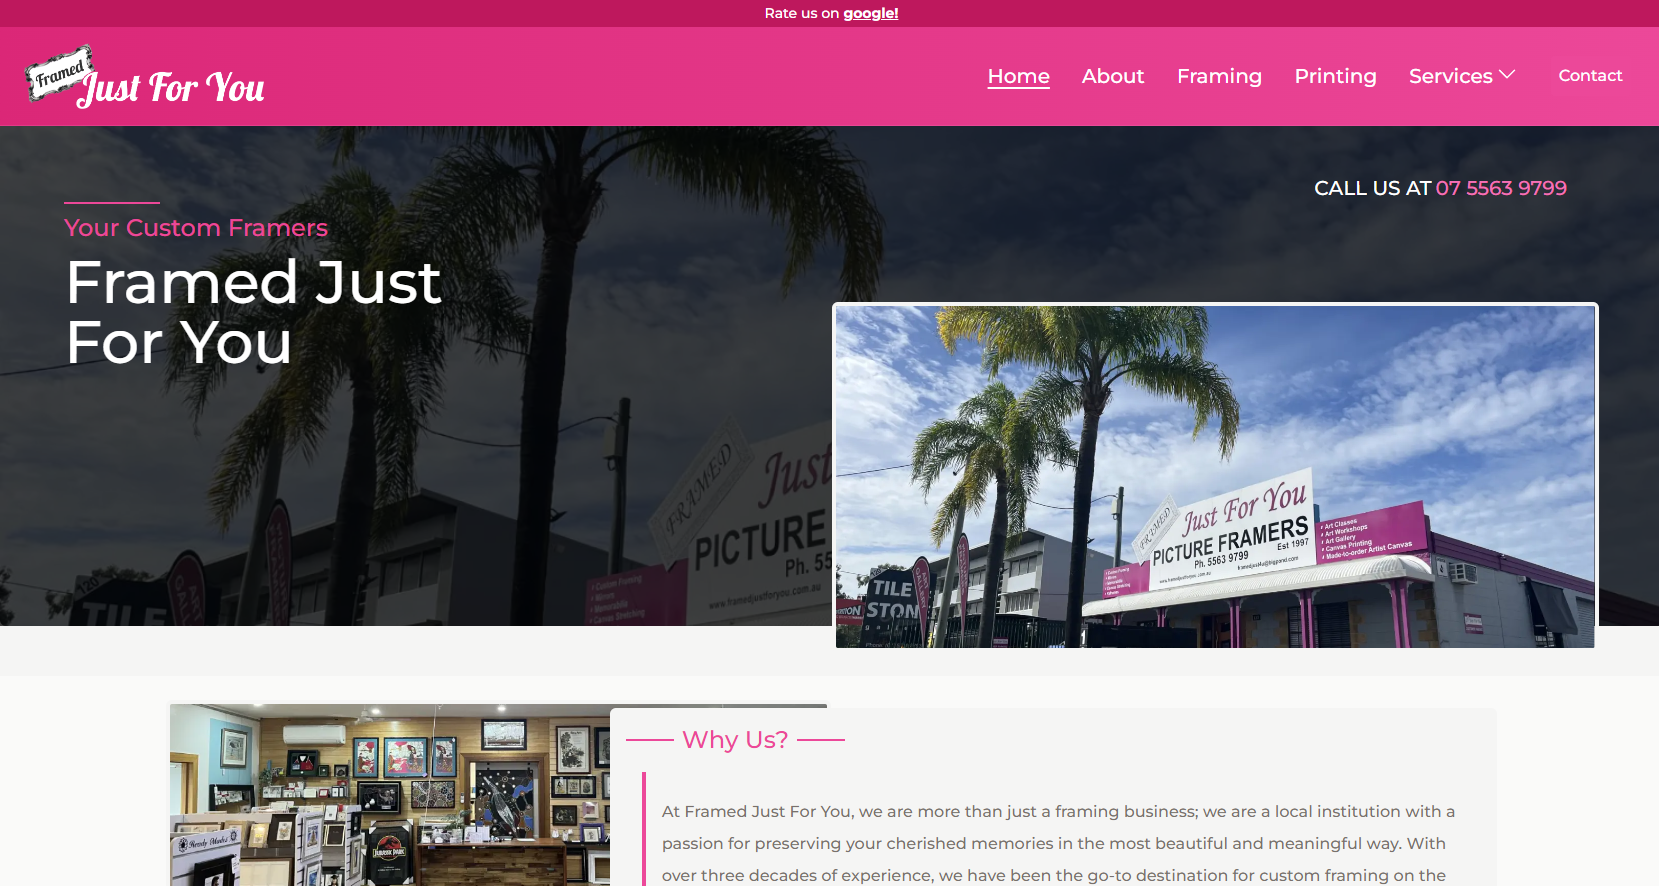
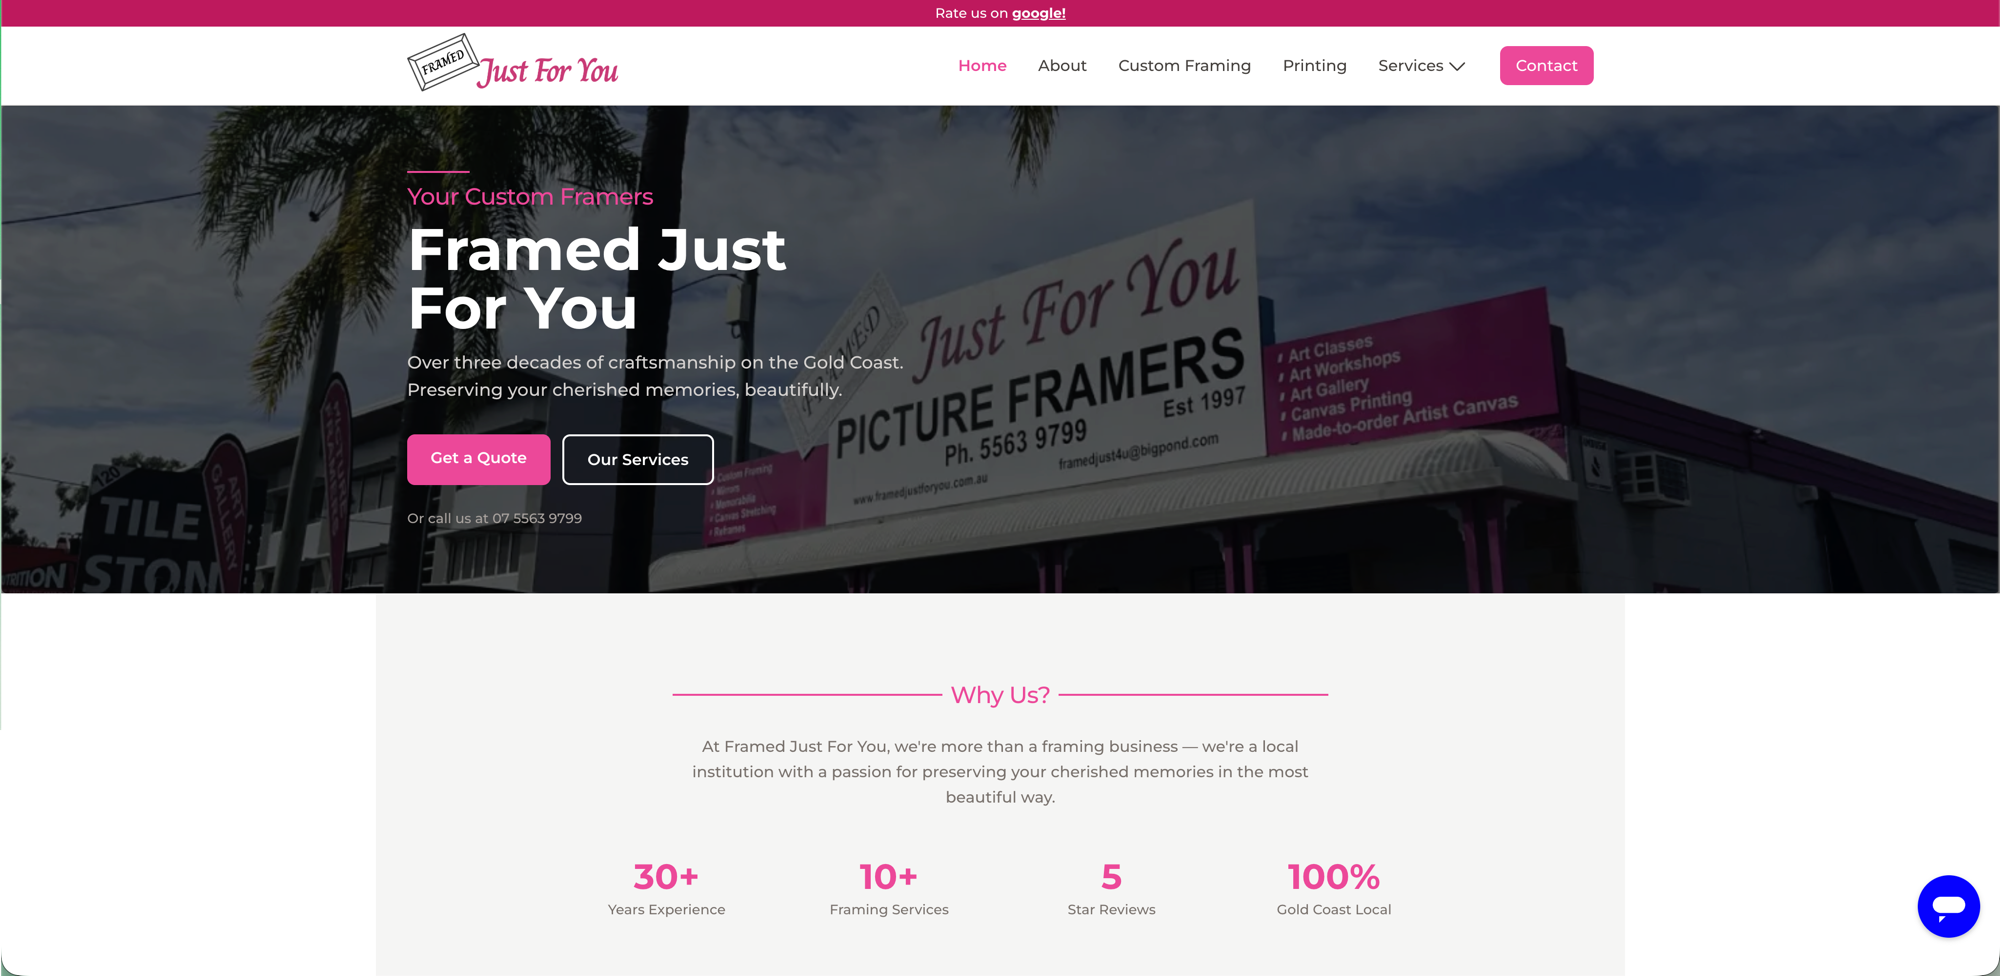
add quokka project and update/add other project images

diff --git a/pages/projects.vue b/pages/projects.vue
@@ -5,6 +5,8 @@ const { reveal } = useScrollReveal()
 
 import framedImage from '~/assets/images/projects/framed/home.png'
 import habitTrackerImage from '~/assets/images/projects/habit-tracker/dashboard.png'
+import quokkaImage from '~/assets/images/projects/quokka/home.png'
+import sharpOddsImage from '~/assets/images/projects/sharp-odds/home.png'
 
 useSeoMeta({
   title: 'Projects - Seth Sharp',
@@ -25,10 +27,19 @@ const projects = [
   {
     title: 'Sharp Odds',
     description: 'A sports odds comparison platform that uses AI to aggregate and normalise raw, unstructured data from multiple bookmaker APIs into a structured schema for storage and comparison. Co-developing the data pipeline and independently managing architecture decisions, database design and infrastructure.',
-    image: null,
-    tags: ['Laravel', 'Vue', 'Inertia', 'API Integrations', 'PostgreSQL'],
+    image: sharpOddsImage,
+    tags: ['Laravel', 'Vue', 'Inertia', 'API Integrations', 'PostgreSQL', 'SaaS'],
     links: {
       live: 'https://sharp-odds.com.au',
+    },
+  },
+  {
+    title: 'Quokka',
+    description: 'A passion project born from researching where to buy in Adelaide. Quokka pulls government open data — housing prices, crime rates, bushfire risk, schools, and ABS census data — and presents it side by side so first home buyers can compare suburbs without agents or subscriptions.',
+    image: quokkaImage,
+    tags: ['Laravel', 'Vue', 'Government Data', 'ABS'],
+    links: {
+      live: 'https://tryquokka.com',
     },
   },
   {